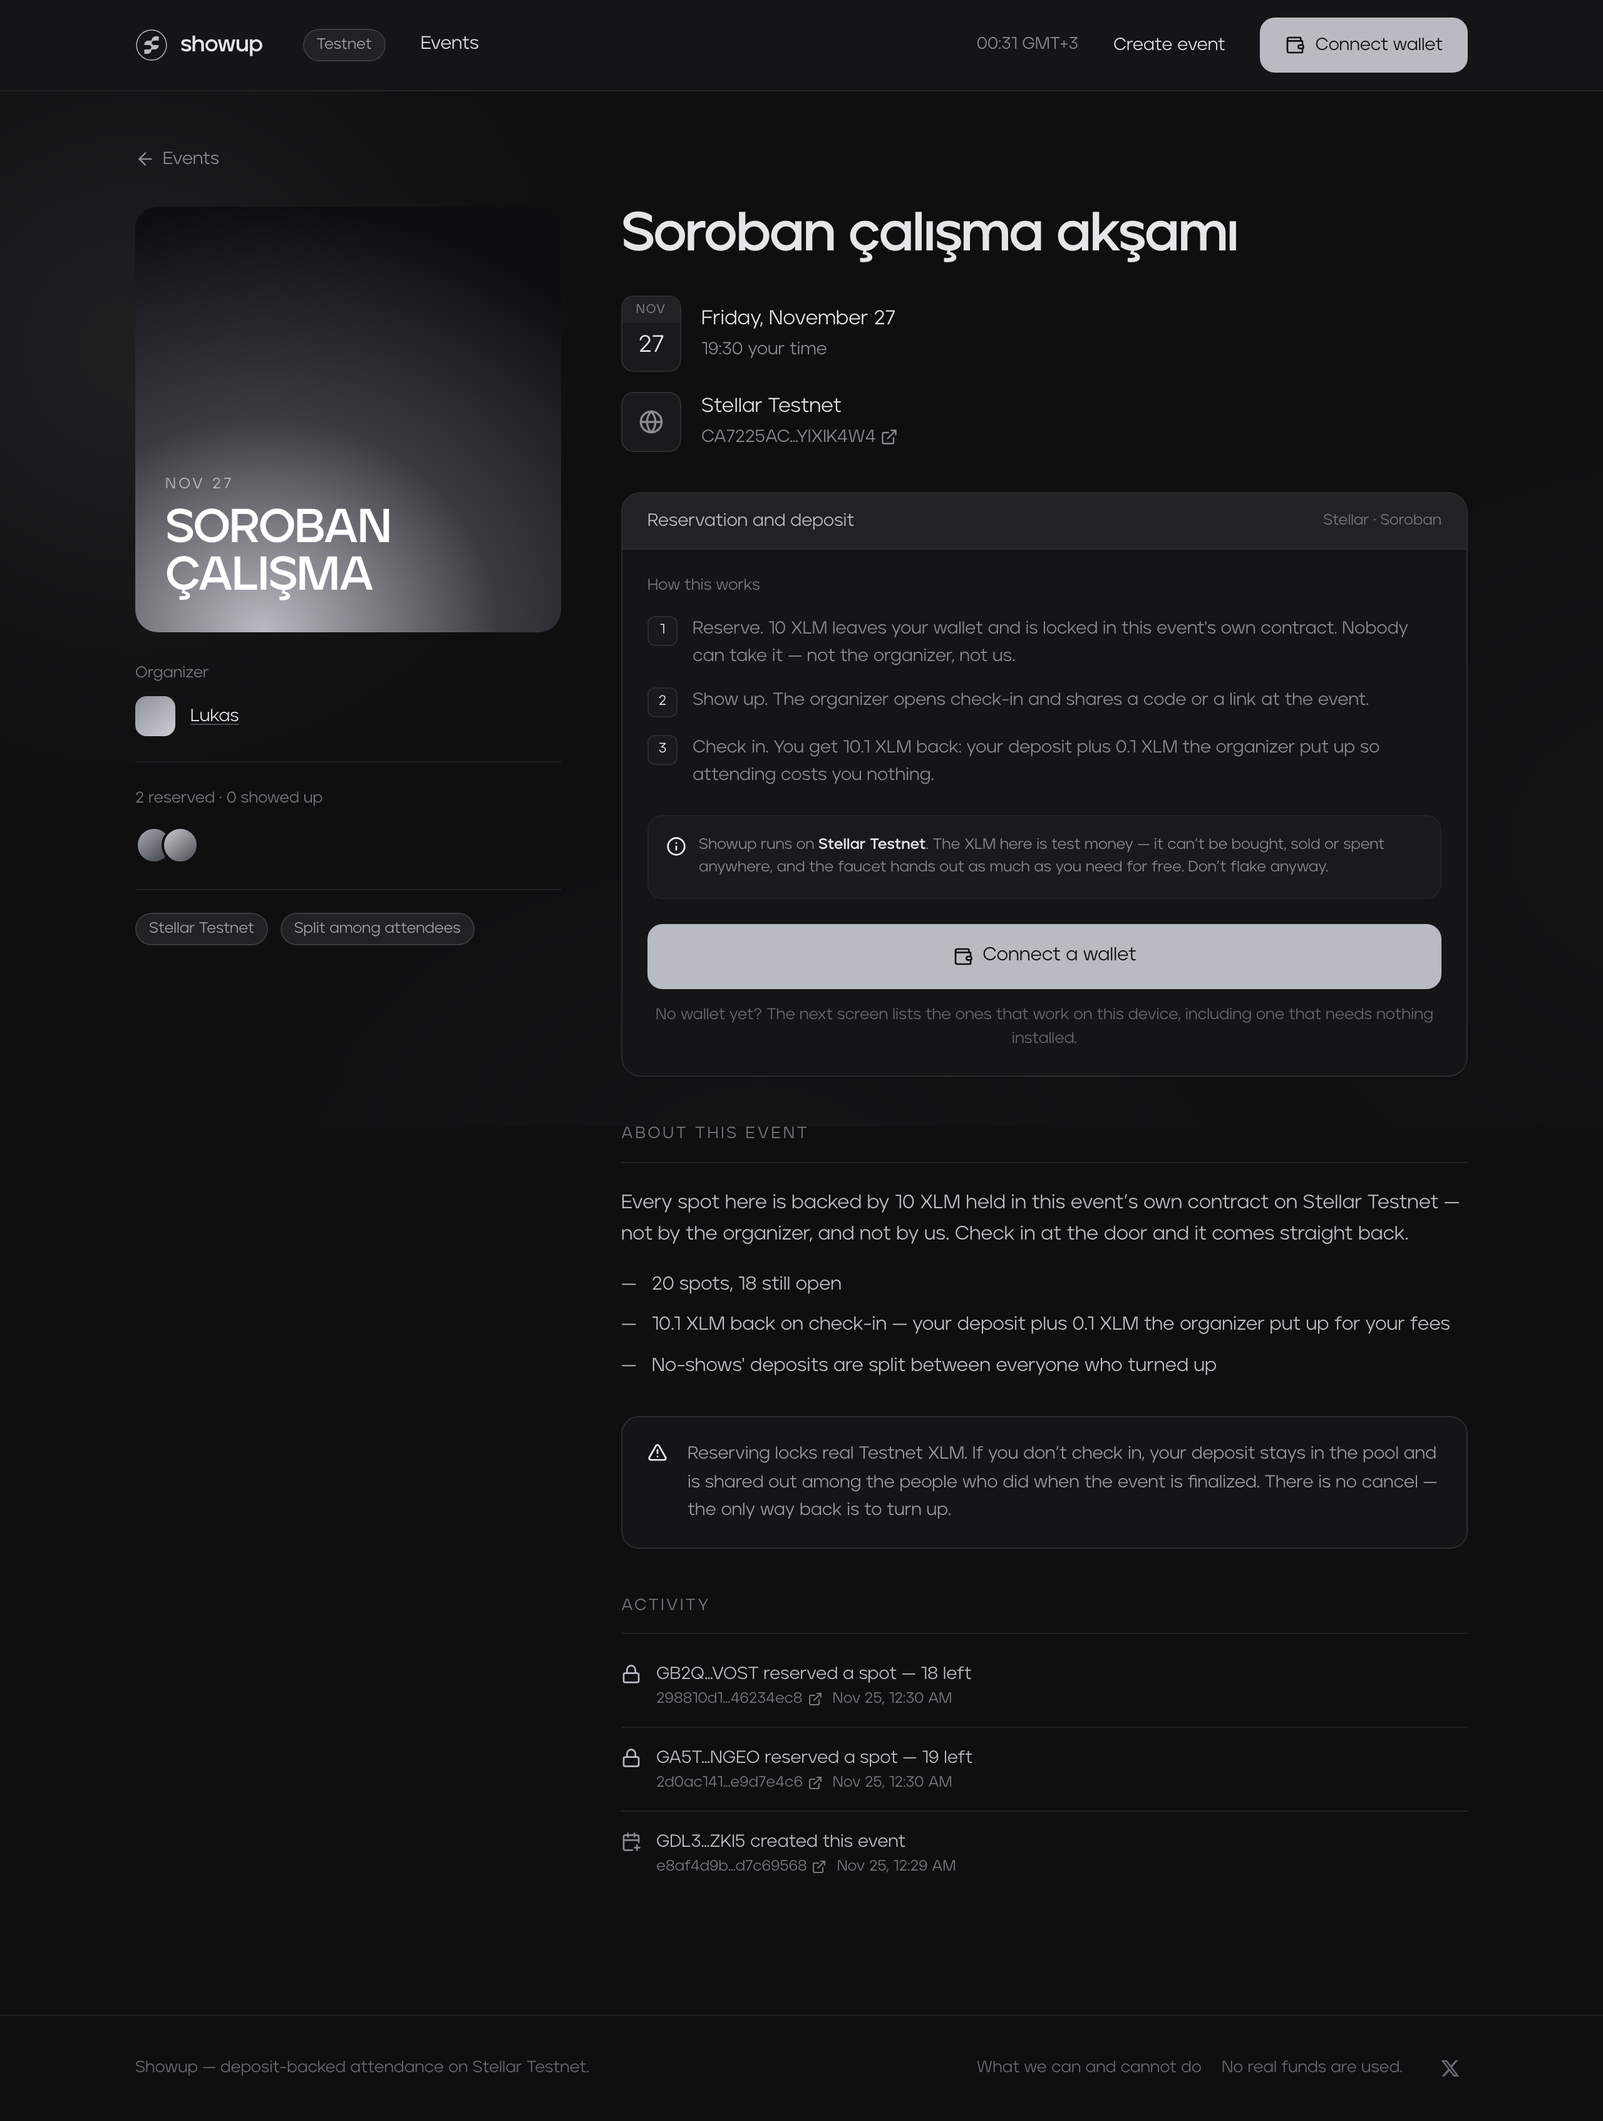
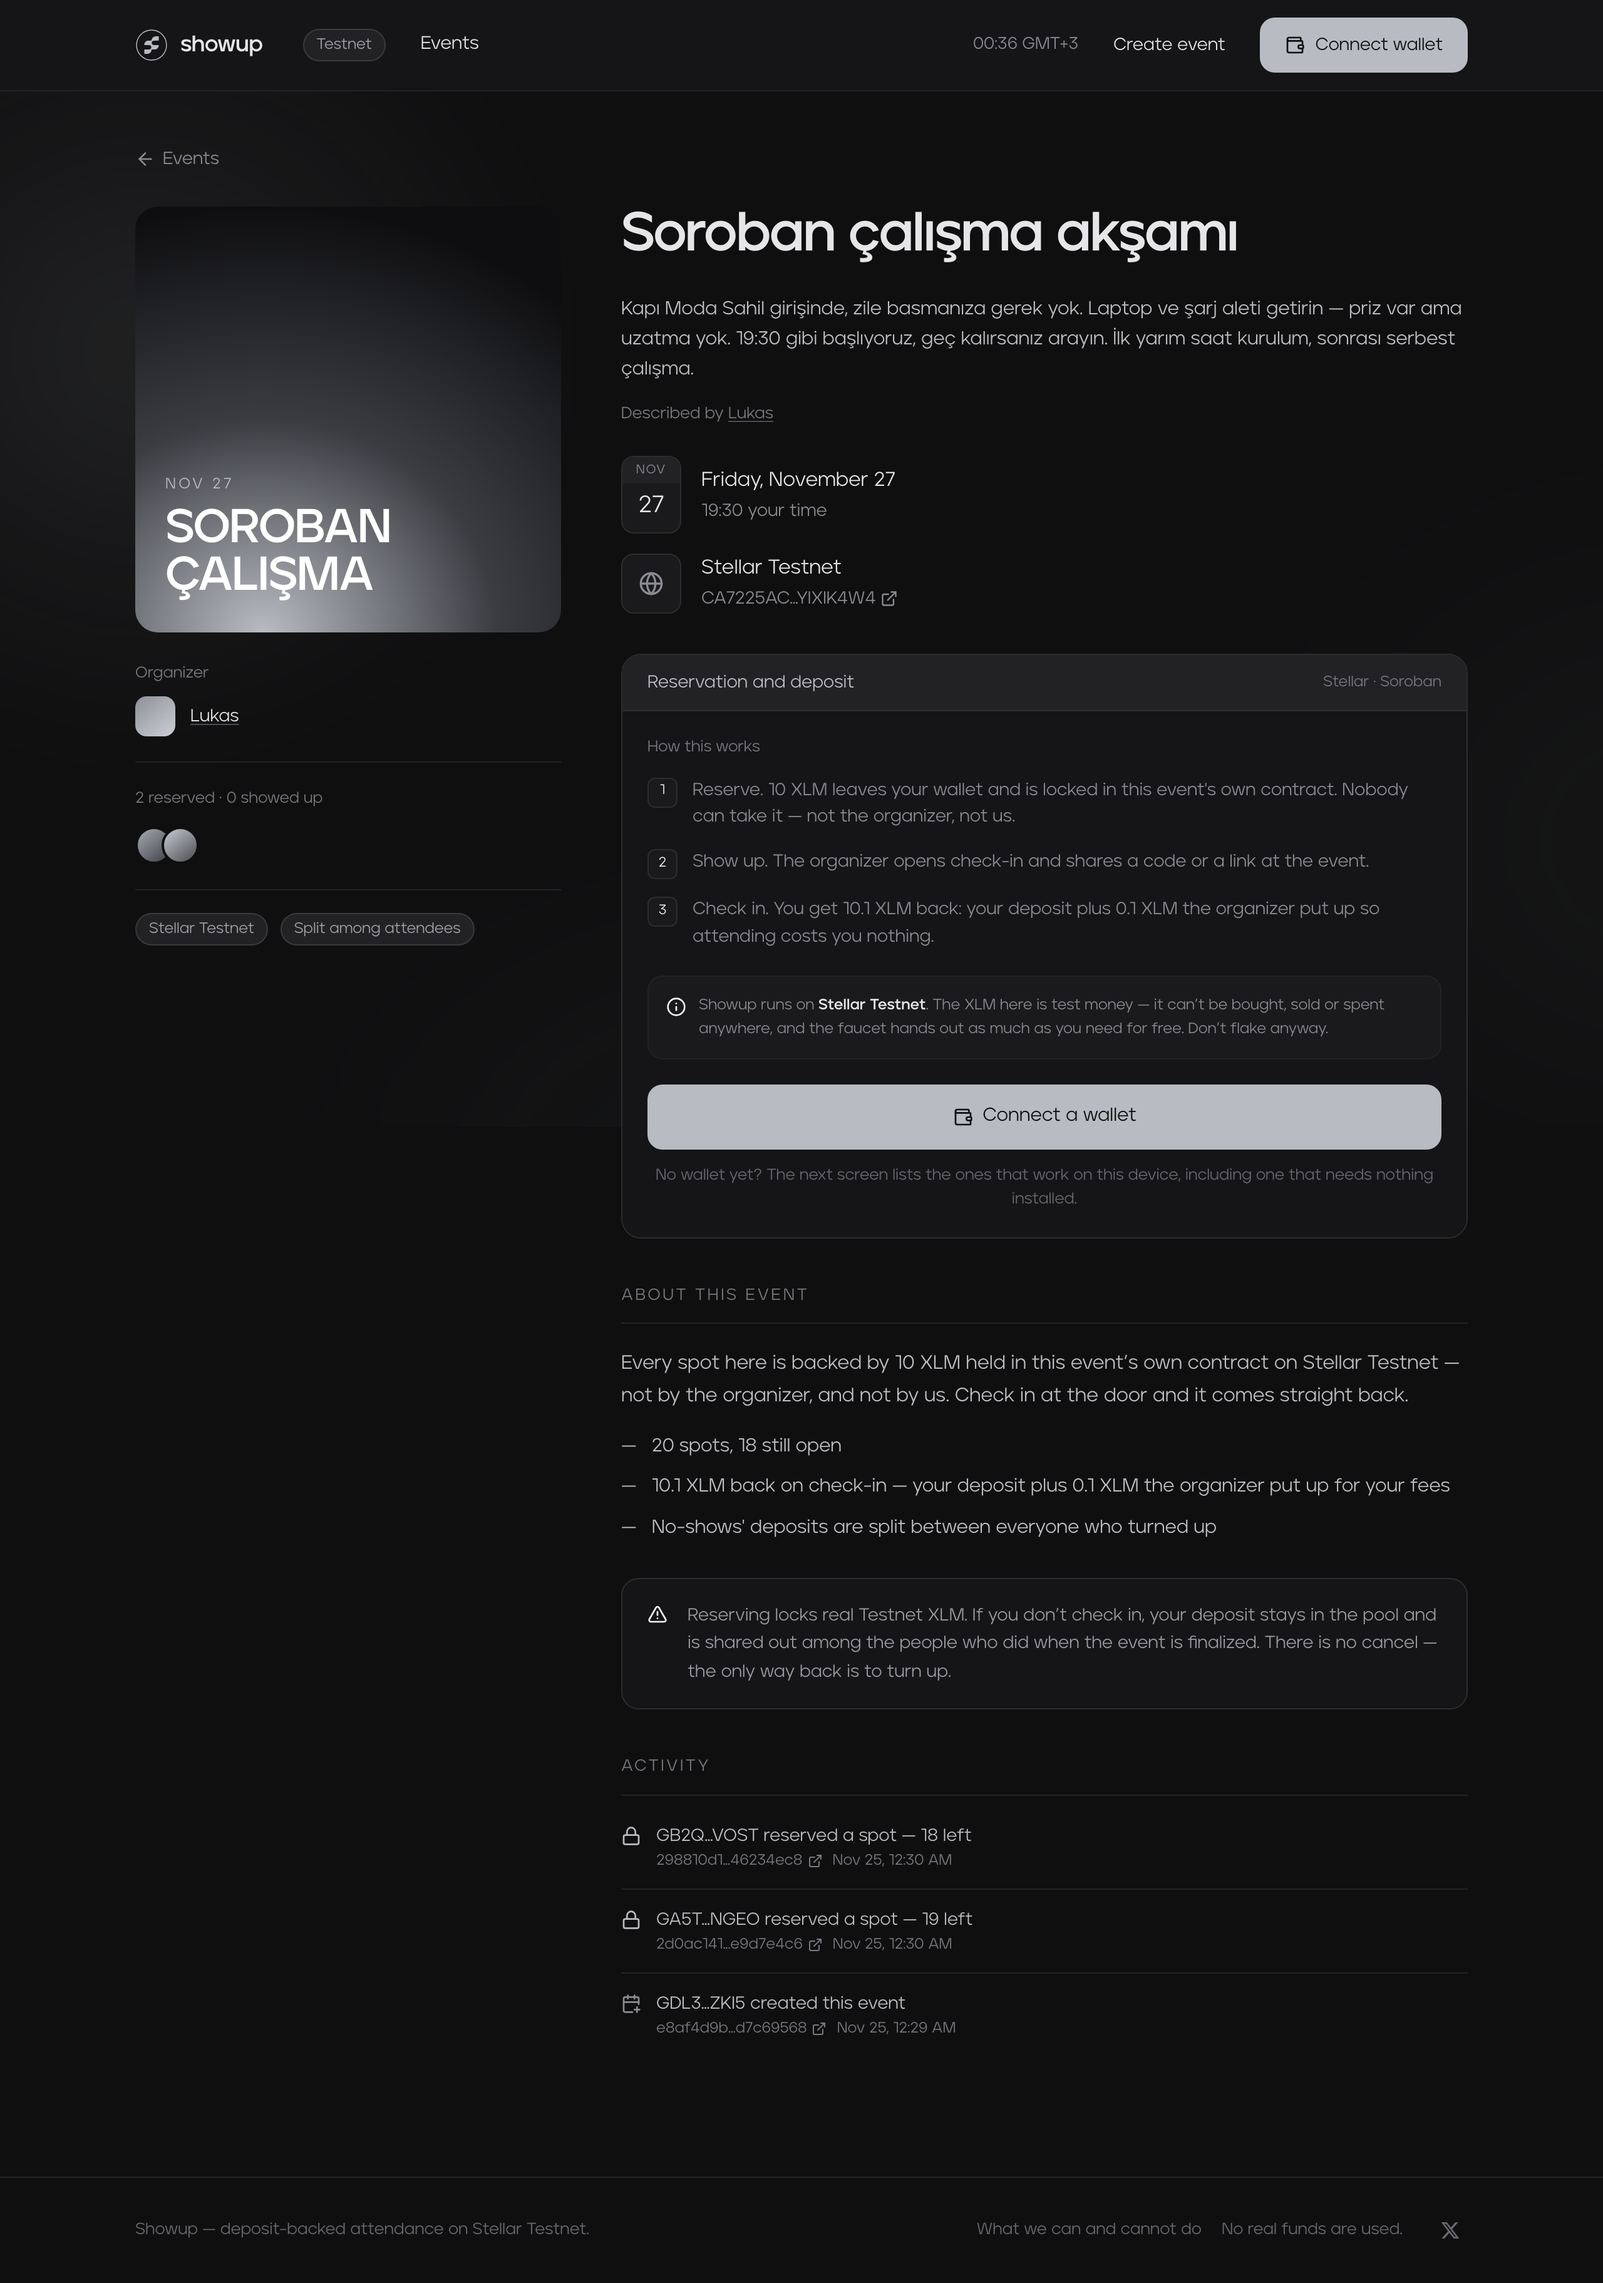
docs: show the trust page and a described event in the README

diff --git a/README.md b/README.md
@@ -440,6 +440,16 @@ three separate commands so a signed envelope can travel between machines) and
 signers and raising the threshold as two commands for the same reason: raising it is
 the one move a single key cannot undo.
 
+**And it is written down for the people whose money it is.** `/trust` says, in the
+product rather than in a repository, what can be upgraded, what cannot, who holds
+the keys and what that means for a deposit already locked — including the parts
+that are a limit on us: the event contract has no `upgrade` at all, so the rules a
+deposit was placed under cannot be rewritten afterwards by anybody, us included.
+
+| [`/trust`](https://testnet.showup.click/trust) — what we can and cannot do |
+| :--: |
+| ![The trust page: what can be upgraded, what cannot, and who holds the keys](docs/screenshots/sow3/trust-desktop.png) |
+
 ### Deployed contracts (Testnet)
 
 | What | Address |
@@ -677,6 +687,14 @@ door is, what to bring, or who the evening is for. Hosts can now write that down
 - **Refused before it is stored**, with the same rules the rest of the project uses
   for text somebody else will read: a length limit, and no invisible or
   direction-flipping characters.
+
+| An event with a description, above the deposit it explains |
+| :--: |
+| ![An event page: the title, the host's own description attributed to them, and the reservation panel below it](docs/screenshots/sow3/event-open-desktop.png) |
+
+The description sits **above** the deposit panel and outside it, attributed to the
+wallet that wrote it with a link to that wallet's record. Inside the panel it would
+read as part of the terms, and the terms are the contract's to state.
 
 ---
 
